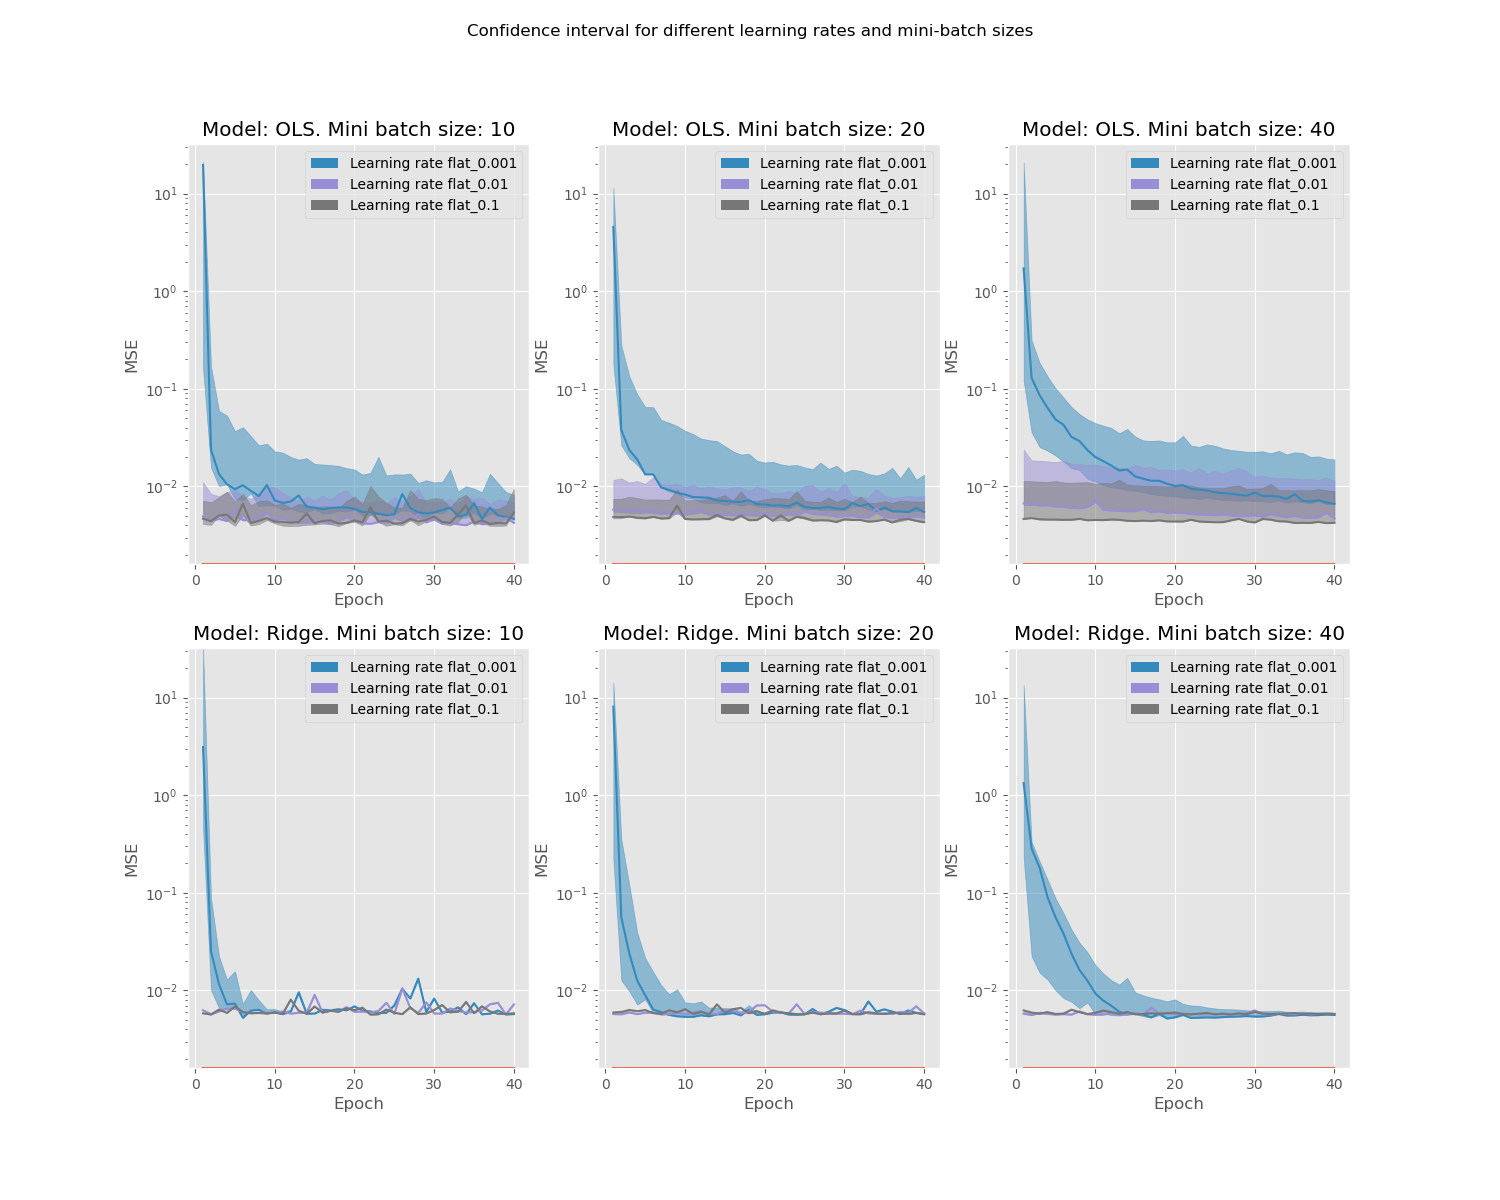
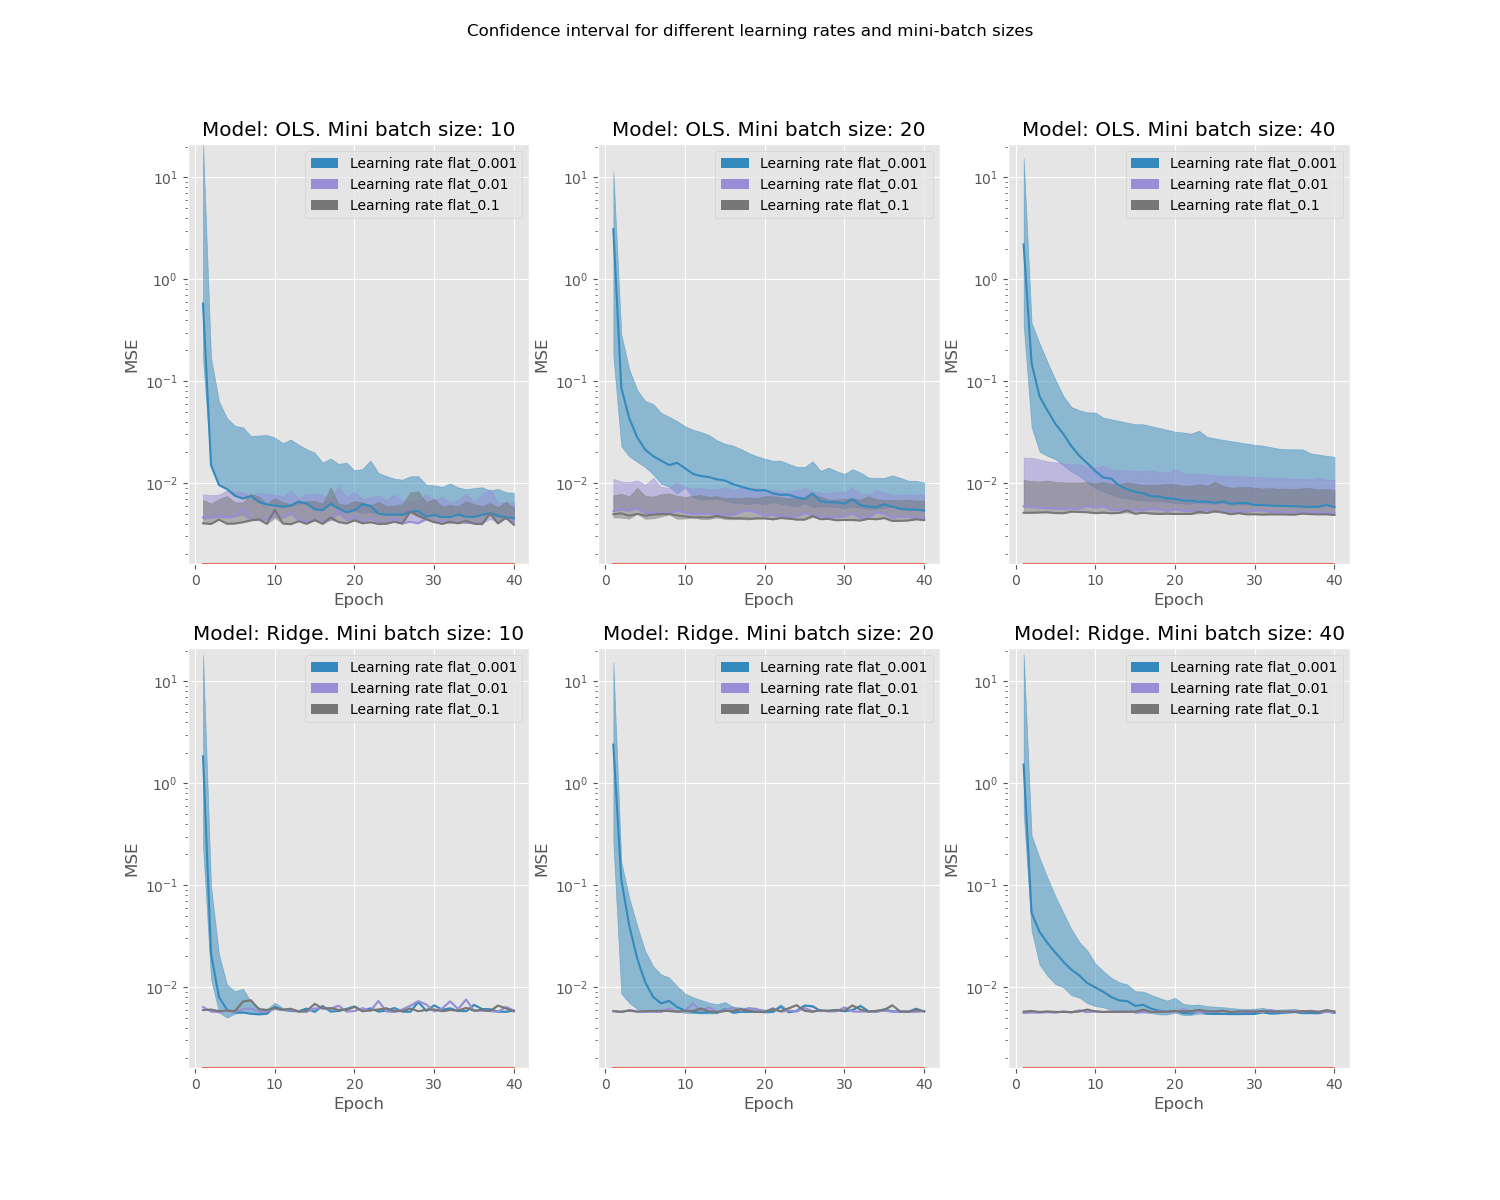
Simplified mini batch selection in sgd

diff --git a/python/sgd.py b/python/sgd.py
@@ -43,7 +43,7 @@ def sgd(model_x, y, learning_rates, model=linear_models.LinearRegression(), epoc
     """
 
     data_size = model_x.shape[0]
-    data_size_array = np.arange(data_size)
+    indexes = np.arange(data_size)
 
     errors_index = pd.MultiIndex.from_product([
         [learning_rate_name for _, learning_rate_name in learning_rates],
@@ -61,13 +61,11 @@ def sgd(model_x, y, learning_rates, model=linear_models.LinearRegression(), epoc
             print("\r        ", j+1, '/ 3 |  epoch: 0| ' + "-" * (epoch // 5) + " "*(20 - epoch // 5), f"|{epoch:.0f}", end="")
             errors.loc[learning_rate_name][epoch] = metrics.MSE(model.predict(model_x), y[:,np.newaxis]) # Check shapes
             
-            indexes_used = np.zeros(data_size, dtype=bool)
-            for mini_batch in range(1, int(data_size/mini_batch_size) + 1):
-                k = np.random.choice(data_size_array[indexes_used == False], size=(mini_batch_size))
-                indexes_used[k] = True
-
-                y_tilde = model.predict(model_x[k])
-                model.update_parameters(model_x[k], y[k], y_tilde)
+            np.random.shuffle(indexes)
+            mini_batches = indexes.reshape(-1, mini_batch_size)
+            for mini_batch in mini_batches:
+                y_tilde = model.predict(model_x[mini_batch])
+                model.update_parameters(model_x[mini_batch], y[mini_batch], y_tilde)
 
         print("")
 
@@ -107,6 +105,7 @@ def plot_sgd(model_x, y, title, learning_rates, subplots_kwargs, **sgd_kwargs):
         kwargs.update(subplot_kwargs)
 
         errors = sgd(model_x, y, learning_rates, **kwargs)
+
         plot_y = []
         for j, (_, learning_rate_name) in enumerate(learning_rate_iter):
             error_for_learning_rate = errors.loc[learning_rate_name]
@@ -114,6 +113,7 @@ def plot_sgd(model_x, y, title, learning_rates, subplots_kwargs, **sgd_kwargs):
             max_errors = error_for_learning_rate.max(axis=0).to_numpy()
             best_index = error_for_learning_rate[kwargs['epochs']].idxmin()
             best_errors = error_for_learning_rate.loc[best_index].to_numpy()
+
             plot_y.append((np.concatenate((min_errors[np.newaxis,:], best_errors[np.newaxis,:], max_errors[np.newaxis,:]), axis=0), {'color_MSE': 'C'+str(j+1), 'color_shading': 'C'+str(j+1)}))
 
         model = linear_models.LinearRegression()
